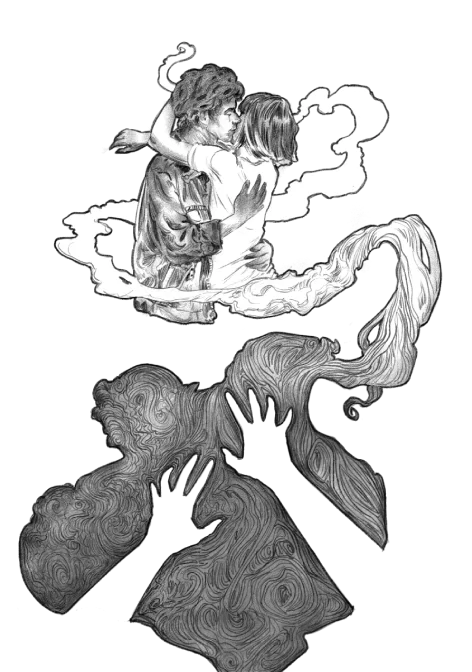
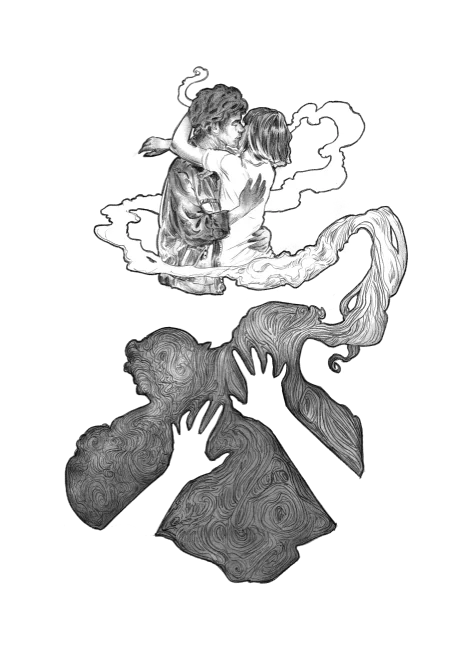
Birth images up, shadow backgrounds updated

diff --git a/client/src/loader/assetLists.ts b/client/src/loader/assetLists.ts
@@ -52,7 +52,9 @@ export const assetLists = {
       "0",
       "1",
       "2",
+      "2",
       "3",
+      "4",
       "5",
       "6",
       "7"
@@ -62,20 +64,26 @@ export const assetLists = {
   "card/subject": {
     "files": [
       "Abundance",
+      "Ancestry",
       "Arsonist",
       "Ashes",
       "Awakening",
       "Balance",
       "Begging Bowl",
+      "Beginner's Mind",
+      "Beginners Mind",
+      "Birth",
       "Boa",
       "Bounty",
       "Bull",
+      "Child",
       "Clear View",
       "Cling",
       "Cloak of Stars",
       "Cloud",
       "Conquer",
       "Cosmos",
+      "Cradle",
       "Dagger",
       "Dam Breaks",
       "Dash",
@@ -100,16 +108,19 @@ export const assetLists = {
       "Gain and Loss",
       "Gentle Rain",
       "Goliath",
+      "Heirloom",
       "Hero",
       "Heron",
       "Hold Tight",
       "Hollow",
+      "Hug",
       "Hungry Ghost",
       "Hurricane",
       "Iceberg",
       "Immolant",
       "Imprison",
       "Impulse",
+      "Just Like Dad",
       "Lantern",
       "Lay Bare",
       "Let Go",
@@ -118,6 +129,7 @@ export const assetLists = {
       "Mercy",
       "Mine",
       "Moon",
+      "Nascence",
       "Nectar",
       "Nest",
       "Night Vision",
@@ -126,13 +138,17 @@ export const assetLists = {
       "Overflow",
       "Parade",
       "Parch",
+      "Pass On",
       "Pet",
       "Phoenix",
       "Pomegranate",
       "Possibility",
+      "Posterity",
       "Predator",
+      "Pregnant",
       "Prey",
       "Pride",
+      "Rebirth",
       "Refresh",
       "Riddle",
       "Rooster",
@@ -145,10 +161,13 @@ export const assetLists = {
       "Spark",
       "Starling",
       "Stars",
+      "Storytime",
       "Sun",
       "Sunflower",
+      "The Future",
       "Timid",
       "Truth",
+      "Uprising",
       "Vampire",
       "Veteran",
       "Victim",
@@ -163,7 +182,9 @@ export const assetLists = {
       "0",
       "1",
       "2",
+      "2",
       "3",
+      "4",
       "5",
       "6",
       "7"
@@ -175,7 +196,9 @@ export const assetLists = {
       "0",
       "1",
       "2",
+      "2",
       "3",
+      "4",
       "5",
       "6",
       "7"
